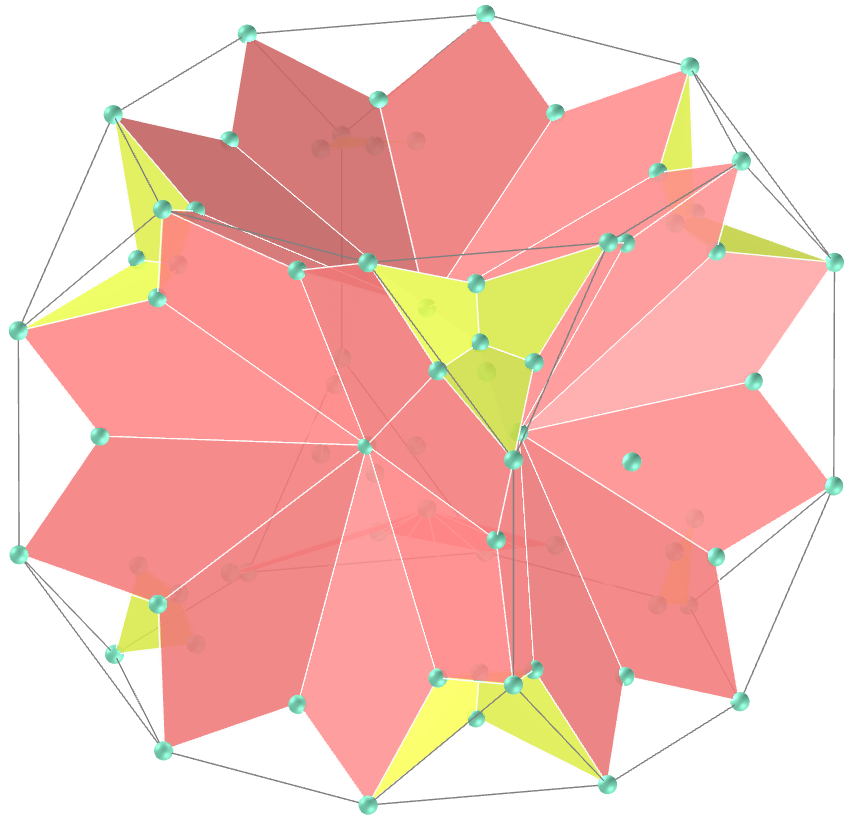
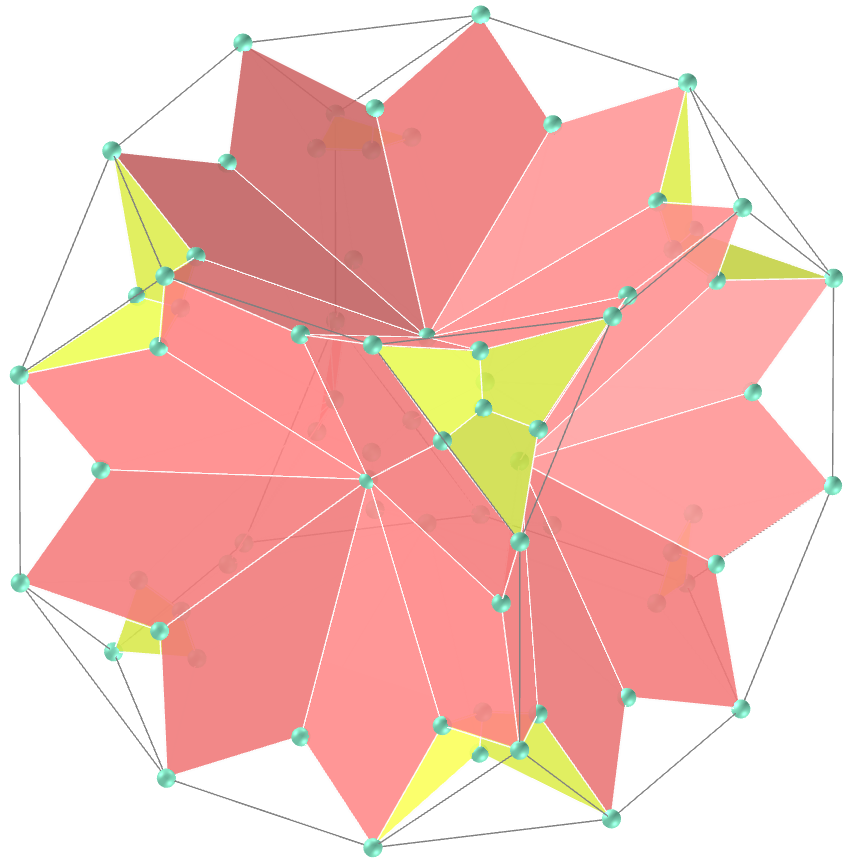
update

diff --git a/kites/vr/Truncated_Cuboctahedron.htm b/kites/vr/Truncated_Cuboctahedron.htm
@@ -84,19 +84,19 @@
 			<a-sphere mixin='esfera' position='0 -0.998760332 1.583820664'></a-sphere>
 			<a-sphere mixin='esfera' position='0.706230166 -0.706230166 1.583820664'></a-sphere>
 			<a-sphere mixin='esfera' position='0.998760332 0 1.583820664'></a-sphere>
-			<a-sphere mixin='esfera' position='0 0 0.79171891'></a-sphere>
+			<a-sphere mixin='esfera' position='0 0 0.7895470125'></a-sphere>
 			<a-sphere mixin='esfera' position='1.291290498 0.4137 1.291290498'></a-sphere>
 			<a-sphere mixin='esfera' position='1.583820664 0.706230166 0.706230166'></a-sphere>
 			<a-sphere mixin='esfera' position='1.291290498 1.291290498 0.4137'></a-sphere>
 			<a-sphere mixin='esfera' position='0.706230166 1.583820664 0.706230166'></a-sphere>
 			<a-sphere mixin='esfera' position='0.4137 1.291290498 1.291290498'></a-sphere>
 			<a-sphere mixin='esfera' position='0.706230166 0.706230166 1.583820664'></a-sphere>
-			<a-sphere mixin='esfera' position='0.658476869 0.658476869 0.658476869'></a-sphere>
+			<a-sphere mixin='esfera' position='0.65803158 0.65803158 0.65803158'></a-sphere>
 			<a-sphere mixin='esfera' position='0.998760332 0 1.583820664'></a-sphere>
 			<a-sphere mixin='esfera' position='1.291290498 -0.4137 1.291290498'></a-sphere>
 			<a-sphere mixin='esfera' position='1.583820664 0 0.998760332'></a-sphere>
 			<a-sphere mixin='esfera' position='1.291290498 0.4137 1.291290498'></a-sphere>
-			<a-sphere mixin='esfera' position='1.101670247 0 1.101670247'></a-sphere>
+			<a-sphere mixin='esfera' position='1.1012199371 0 1.1012199371'></a-sphere>
 			<a-sphere mixin='esfera' position='0.998760332 0 -1.583820664'></a-sphere>
 			<a-sphere mixin='esfera' position='0.706230166 -0.706230166 -1.583820664'></a-sphere>
 			<a-sphere mixin='esfera' position='0 -0.998760332 -1.583820664'></a-sphere>
@@ -105,7 +105,7 @@
 			<a-sphere mixin='esfera' position='-0.706230166 0.706230166 -1.583820664'></a-sphere>
 			<a-sphere mixin='esfera' position='0 0.998760332 -1.583820664'></a-sphere>
 			<a-sphere mixin='esfera' position='0.706230166 0.706230166 -1.583820664'></a-sphere>
-			<a-sphere mixin='esfera' position='0 0 -0.79171891'></a-sphere>
+			<a-sphere mixin='esfera' position='0 0 -0.7895470125'></a-sphere>
 			<a-sphere mixin='esfera' position='1.583820664 0.706230166 0.706230166'></a-sphere>
 			<a-sphere mixin='esfera' position='1.583820664 0 0.998760332'></a-sphere>
 			<a-sphere mixin='esfera' position='1.583820664 -0.706230166 0.706230166'></a-sphere>
@@ -114,7 +114,7 @@
 			<a-sphere mixin='esfera' position='1.583820664 0 -0.998760332'></a-sphere>
 			<a-sphere mixin='esfera' position='1.583820664 0.706230166 -0.706230166'></a-sphere>
 			<a-sphere mixin='esfera' position='1.583820664 0.998760332 0'></a-sphere>
-			<a-sphere mixin='esfera' position='0.79171891 0 0'></a-sphere>
+			<a-sphere mixin='esfera' position='0.7895470125 0 0'></a-sphere>
 			<a-sphere mixin='esfera' position='-1.583820664 0.998760332 0'></a-sphere>
 			<a-sphere mixin='esfera' position='-1.583820664 0.706230166 -0.706230166'></a-sphere>
 			<a-sphere mixin='esfera' position='-1.583820664 0 -0.998760332'></a-sphere>
@@ -123,7 +123,7 @@
 			<a-sphere mixin='esfera' position='-1.583820664 -0.706230166 0.706230166'></a-sphere>
 			<a-sphere mixin='esfera' position='-1.583820664 0 0.998760332'></a-sphere>
 			<a-sphere mixin='esfera' position='-1.583820664 0.706230166 0.706230166'></a-sphere>
-			<a-sphere mixin='esfera' position='-0.79171891 0 0'></a-sphere>
+			<a-sphere mixin='esfera' position='-0.7895470125 0 0'></a-sphere>
 			<a-sphere mixin='esfera' position='0.706230166 1.583820664 0.706230166'></a-sphere>
 			<a-sphere mixin='esfera' position='0.998760332 1.583820664 0'></a-sphere>
 			<a-sphere mixin='esfera' position='0.706230166 1.583820664 -0.706230166'></a-sphere>
@@ -132,7 +132,7 @@
 			<a-sphere mixin='esfera' position='-0.998760332 1.583820664 0'></a-sphere>
 			<a-sphere mixin='esfera' position='-0.706230166 1.583820664 0.706230166'></a-sphere>
 			<a-sphere mixin='esfera' position='0 1.583820664 0.998760332'></a-sphere>
-			<a-sphere mixin='esfera' position='0 0.79171891 0'></a-sphere>
+			<a-sphere mixin='esfera' position='0 0.7895470125 0'></a-sphere>
 			<a-sphere mixin='esfera' position='0 -1.583820664 0.998760332'></a-sphere>
 			<a-sphere mixin='esfera' position='-0.706230166 -1.583820664 0.706230166'></a-sphere>
 			<a-sphere mixin='esfera' position='-0.998760332 -1.583820664 0'></a-sphere>
@@ -141,111 +141,111 @@
 			<a-sphere mixin='esfera' position='0.706230166 -1.583820664 -0.706230166'></a-sphere>
 			<a-sphere mixin='esfera' position='0.998760332 -1.583820664 0'></a-sphere>
 			<a-sphere mixin='esfera' position='0.706230166 -1.583820664 0.706230166'></a-sphere>
-			<a-sphere mixin='esfera' position='0 -0.79171891 0'></a-sphere>
+			<a-sphere mixin='esfera' position='0 -0.7895470125 0'></a-sphere>
 			<a-sphere mixin='esfera' position='0.706230166 0.706230166 -1.583820664'></a-sphere>
 			<a-sphere mixin='esfera' position='0.4137 1.291290498 -1.291290498'></a-sphere>
 			<a-sphere mixin='esfera' position='0.706230166 1.583820664 -0.706230166'></a-sphere>
 			<a-sphere mixin='esfera' position='1.291290498 1.291290498 -0.4137'></a-sphere>
 			<a-sphere mixin='esfera' position='1.583820664 0.706230166 -0.706230166'></a-sphere>
 			<a-sphere mixin='esfera' position='1.291290498 0.4137 -1.291290498'></a-sphere>
-			<a-sphere mixin='esfera' position='0.658476869 0.658476869 -0.658476869'></a-sphere>
+			<a-sphere mixin='esfera' position='0.65803158 0.65803158 -0.65803158'></a-sphere>
 			<a-sphere mixin='esfera' position='0.706230166 -0.706230166 1.583820664'></a-sphere>
 			<a-sphere mixin='esfera' position='0.4137 -1.291290498 1.291290498'></a-sphere>
 			<a-sphere mixin='esfera' position='0.706230166 -1.583820664 0.706230166'></a-sphere>
 			<a-sphere mixin='esfera' position='1.291290498 -1.291290498 0.4137'></a-sphere>
 			<a-sphere mixin='esfera' position='1.583820664 -0.706230166 0.706230166'></a-sphere>
 			<a-sphere mixin='esfera' position='1.291290498 -0.4137 1.291290498'></a-sphere>
-			<a-sphere mixin='esfera' position='0.658476869 -0.658476869 0.658476869'></a-sphere>
+			<a-sphere mixin='esfera' position='0.65803158 -0.65803158 0.65803158'></a-sphere>
 			<a-sphere mixin='esfera' position='1.291290498 -0.4137 -1.291290498'></a-sphere>
 			<a-sphere mixin='esfera' position='1.583820664 -0.706230166 -0.706230166'></a-sphere>
 			<a-sphere mixin='esfera' position='1.291290498 -1.291290498 -0.4137'></a-sphere>
 			<a-sphere mixin='esfera' position='0.706230166 -1.583820664 -0.706230166'></a-sphere>
 			<a-sphere mixin='esfera' position='0.4137 -1.291290498 -1.291290498'></a-sphere>
 			<a-sphere mixin='esfera' position='0.706230166 -0.706230166 -1.583820664'></a-sphere>
-			<a-sphere mixin='esfera' position='0.658476869 -0.658476869 -0.658476869'></a-sphere>
+			<a-sphere mixin='esfera' position='0.65803158 -0.65803158 -0.65803158'></a-sphere>
 			<a-sphere mixin='esfera' position='-0.706230166 0.706230166 1.583820664'></a-sphere>
 			<a-sphere mixin='esfera' position='-0.4137 1.291290498 1.291290498'></a-sphere>
 			<a-sphere mixin='esfera' position='-0.706230166 1.583820664 0.706230166'></a-sphere>
 			<a-sphere mixin='esfera' position='-1.291290498 1.291290498 0.4137'></a-sphere>
 			<a-sphere mixin='esfera' position='-1.583820664 0.706230166 0.706230166'></a-sphere>
 			<a-sphere mixin='esfera' position='-1.291290498 0.4137 1.291290498'></a-sphere>
-			<a-sphere mixin='esfera' position='-0.658476869 0.658476869 0.658476869'></a-sphere>
+			<a-sphere mixin='esfera' position='-0.65803158 0.65803158 0.65803158'></a-sphere>
 			<a-sphere mixin='esfera' position='-1.291290498 0.4137 -1.291290498'></a-sphere>
 			<a-sphere mixin='esfera' position='-1.583820664 0.706230166 -0.706230166'></a-sphere>
 			<a-sphere mixin='esfera' position='-1.291290498 1.291290498 -0.4137'></a-sphere>
 			<a-sphere mixin='esfera' position='-0.706230166 1.583820664 -0.706230166'></a-sphere>
 			<a-sphere mixin='esfera' position='-0.4137 1.291290498 -1.291290498'></a-sphere>
 			<a-sphere mixin='esfera' position='-0.706230166 0.706230166 -1.583820664'></a-sphere>
-			<a-sphere mixin='esfera' position='-0.658476869 0.658476869 -0.658476869'></a-sphere>
+			<a-sphere mixin='esfera' position='-0.65803158 0.65803158 -0.65803158'></a-sphere>
 			<a-sphere mixin='esfera' position='-1.291290498 -0.4137 1.291290498'></a-sphere>
 			<a-sphere mixin='esfera' position='-1.583820664 -0.706230166 0.706230166'></a-sphere>
 			<a-sphere mixin='esfera' position='-1.291290498 -1.291290498 0.4137'></a-sphere>
 			<a-sphere mixin='esfera' position='-0.706230166 -1.583820664 0.706230166'></a-sphere>
 			<a-sphere mixin='esfera' position='-0.4137 -1.291290498 1.291290498'></a-sphere>
 			<a-sphere mixin='esfera' position='-0.706230166 -0.706230166 1.583820664'></a-sphere>
-			<a-sphere mixin='esfera' position='-0.658476869 -0.658476869 0.658476869'></a-sphere>
+			<a-sphere mixin='esfera' position='-0.65803158 -0.65803158 0.65803158'></a-sphere>
 			<a-sphere mixin='esfera' position='-0.706230166 -0.706230166 -1.583820664'></a-sphere>
 			<a-sphere mixin='esfera' position='-0.4137 -1.291290498 -1.291290498'></a-sphere>
 			<a-sphere mixin='esfera' position='-0.706230166 -1.583820664 -0.706230166'></a-sphere>
 			<a-sphere mixin='esfera' position='-1.291290498 -1.291290498 -0.4137'></a-sphere>
 			<a-sphere mixin='esfera' position='-1.583820664 -0.706230166 -0.706230166'></a-sphere>
 			<a-sphere mixin='esfera' position='-1.291290498 -0.4137 -1.291290498'></a-sphere>
-			<a-sphere mixin='esfera' position='-0.658476869 -0.658476869 -0.658476869'></a-sphere>
+			<a-sphere mixin='esfera' position='-0.65803158 -0.65803158 -0.65803158'></a-sphere>
 			<a-sphere mixin='esfera' position='1.291290498 0.4137 -1.291290498'></a-sphere>
 			<a-sphere mixin='esfera' position='1.583820664 0 -0.998760332'></a-sphere>
 			<a-sphere mixin='esfera' position='1.291290498 -0.4137 -1.291290498'></a-sphere>
 			<a-sphere mixin='esfera' position='0.998760332 0 -1.583820664'></a-sphere>
-			<a-sphere mixin='esfera' position='1.101670247 0 -1.101670247'></a-sphere>
+			<a-sphere mixin='esfera' position='1.1012199371 0 -1.1012199371'></a-sphere>
 			<a-sphere mixin='esfera' position='-1.291290498 0.4137 1.291290498'></a-sphere>
 			<a-sphere mixin='esfera' position='-1.583820664 0 0.998760332'></a-sphere>
 			<a-sphere mixin='esfera' position='-1.291290498 -0.4137 1.291290498'></a-sphere>
 			<a-sphere mixin='esfera' position='-0.998760332 0 1.583820664'></a-sphere>
-			<a-sphere mixin='esfera' position='-1.101670247 0 1.101670247'></a-sphere>
+			<a-sphere mixin='esfera' position='-1.1012199371 0 1.1012199371'></a-sphere>
 			<a-sphere mixin='esfera' position='-0.998760332 0 -1.583820664'></a-sphere>
 			<a-sphere mixin='esfera' position='-1.291290498 -0.4137 -1.291290498'></a-sphere>
 			<a-sphere mixin='esfera' position='-1.583820664 0 -0.998760332'></a-sphere>
 			<a-sphere mixin='esfera' position='-1.291290498 0.4137 -1.291290498'></a-sphere>
-			<a-sphere mixin='esfera' position='-1.101670247 0 -1.101670247'></a-sphere>
+			<a-sphere mixin='esfera' position='-1.1012199371 0 -1.1012199371'></a-sphere>
 			<a-sphere mixin='esfera' position='1.583820664 0.998760332 0'></a-sphere>
 			<a-sphere mixin='esfera' position='1.291290498 1.291290498 -0.4137'></a-sphere>
 			<a-sphere mixin='esfera' position='0.998760332 1.583820664 0'></a-sphere>
 			<a-sphere mixin='esfera' position='1.291290498 1.291290498 0.4137'></a-sphere>
-			<a-sphere mixin='esfera' position='1.101670247 1.101670247 0'></a-sphere>
+			<a-sphere mixin='esfera' position='1.1012199371 1.1012199371 0'></a-sphere>
 			<a-sphere mixin='esfera' position='1.291290498 -1.291290498 0.4137'></a-sphere>
 			<a-sphere mixin='esfera' position='0.998760332 -1.583820664 0'></a-sphere>
 			<a-sphere mixin='esfera' position='1.291290498 -1.291290498 -0.4137'></a-sphere>
 			<a-sphere mixin='esfera' position='1.583820664 -0.998760332 0'></a-sphere>
-			<a-sphere mixin='esfera' position='1.101670247 -1.101670247 0'></a-sphere>
+			<a-sphere mixin='esfera' position='1.1012199371 -1.1012199371 0'></a-sphere>
 			<a-sphere mixin='esfera' position='-1.291290498 1.291290498 0.4137'></a-sphere>
 			<a-sphere mixin='esfera' position='-0.998760332 1.583820664 0'></a-sphere>
 			<a-sphere mixin='esfera' position='-1.291290498 1.291290498 -0.4137'></a-sphere>
 			<a-sphere mixin='esfera' position='-1.583820664 0.998760332 0'></a-sphere>
-			<a-sphere mixin='esfera' position='-1.101670247 1.101670247 0'></a-sphere>
+			<a-sphere mixin='esfera' position='-1.1012199371 1.1012199371 0'></a-sphere>
 			<a-sphere mixin='esfera' position='-1.583820664 -0.998760332 0'></a-sphere>
 			<a-sphere mixin='esfera' position='-1.291290498 -1.291290498 -0.4137'></a-sphere>
 			<a-sphere mixin='esfera' position='-0.998760332 -1.583820664 0'></a-sphere>
 			<a-sphere mixin='esfera' position='-1.291290498 -1.291290498 0.4137'></a-sphere>
-			<a-sphere mixin='esfera' position='-1.101670247 -1.101670247 0'></a-sphere>
+			<a-sphere mixin='esfera' position='-1.1012199371 -1.1012199371 0'></a-sphere>
 			<a-sphere mixin='esfera' position='0 1.583820664 0.998760332'></a-sphere>
 			<a-sphere mixin='esfera' position='-0.4137 1.291290498 1.291290498'></a-sphere>
 			<a-sphere mixin='esfera' position='0 0.998760332 1.583820664'></a-sphere>
 			<a-sphere mixin='esfera' position='0.4137 1.291290498 1.291290498'></a-sphere>
-			<a-sphere mixin='esfera' position='0 1.101670247 1.101670247'></a-sphere>
+			<a-sphere mixin='esfera' position='0 1.1012199371 1.1012199371'></a-sphere>
 			<a-sphere mixin='esfera' position='0.4137 1.291290498 -1.291290498'></a-sphere>
 			<a-sphere mixin='esfera' position='0 0.998760332 -1.583820664'></a-sphere>
 			<a-sphere mixin='esfera' position='-0.4137 1.291290498 -1.291290498'></a-sphere>
 			<a-sphere mixin='esfera' position='0 1.583820664 -0.998760332'></a-sphere>
-			<a-sphere mixin='esfera' position='0 1.101670247 -1.101670247'></a-sphere>
+			<a-sphere mixin='esfera' position='0 1.1012199371 -1.1012199371'></a-sphere>
 			<a-sphere mixin='esfera' position='0.4137 -1.291290498 1.291290498'></a-sphere>
 			<a-sphere mixin='esfera' position='0 -0.998760332 1.583820664'></a-sphere>
 			<a-sphere mixin='esfera' position='-0.4137 -1.291290498 1.291290498'></a-sphere>
 			<a-sphere mixin='esfera' position='0 -1.583820664 0.998760332'></a-sphere>
-			<a-sphere mixin='esfera' position='0 -1.101670247 1.101670247'></a-sphere>
+			<a-sphere mixin='esfera' position='0 -1.1012199371 1.1012199371'></a-sphere>
 			<a-sphere mixin='esfera' position='0 -1.583820664 -0.998760332'></a-sphere>
 			<a-sphere mixin='esfera' position='-0.4137 -1.291290498 -1.291290498'></a-sphere>
 			<a-sphere mixin='esfera' position='0 -0.998760332 -1.583820664'></a-sphere>
 			<a-sphere mixin='esfera' position='0.4137 -1.291290498 -1.291290498'></a-sphere>
-			<a-sphere mixin='esfera' position='0 -1.101670247 -1.101670247'></a-sphere>
+			<a-sphere mixin='esfera' position='0 -1.1012199371 -1.1012199371'></a-sphere>
 		</a-entity>
 		
 		<a-box mixin="piso" class="piso" visible="false" position="0 -1.5 0"></a-box>
